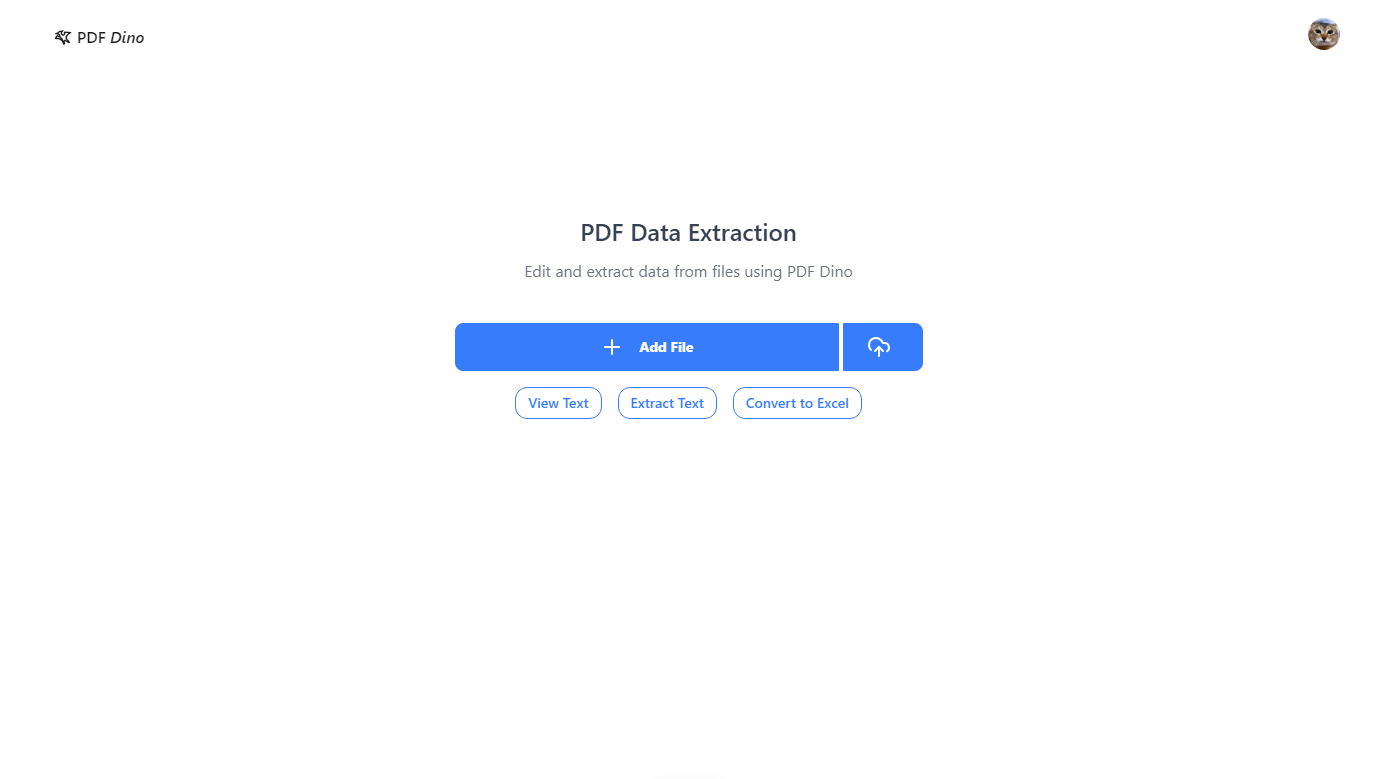
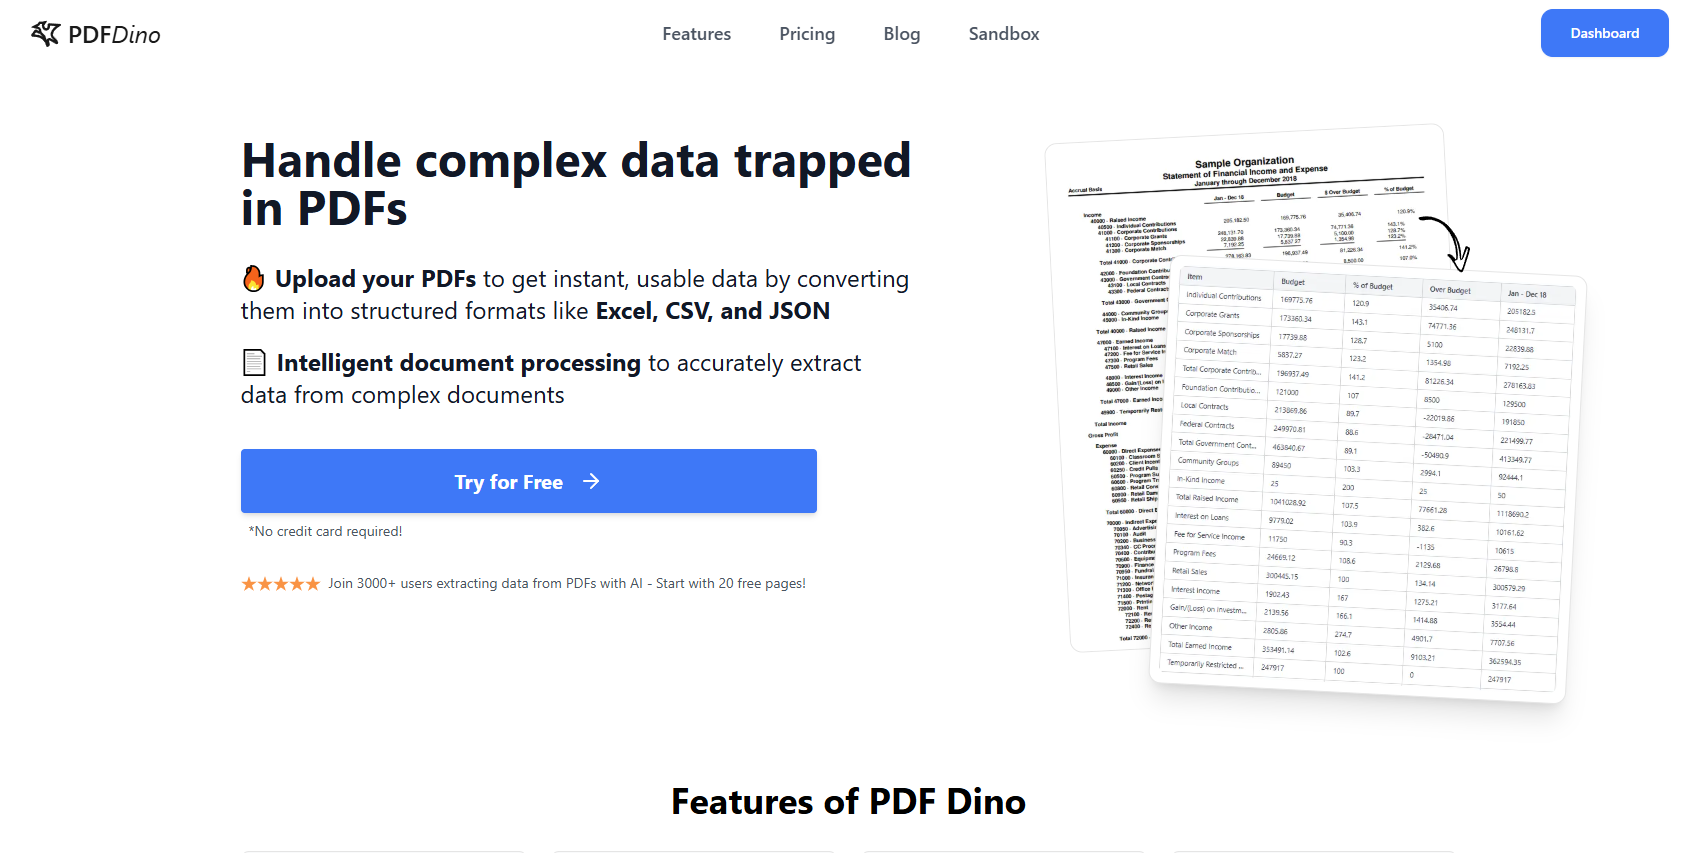
pdf dino landing page update

diff --git a/components/live_projects.tsx b/components/live_projects.tsx
@@ -46,7 +46,7 @@ const LiveProjects = () => {
                             <div className="w-full h-0 pb-[50%] bg-white overflow-hidden relative">
                                 <Image 
                                     className="absolute top-0 left-0 w-full h-full object-contain group-hover:blur-sm" 
-                                    src="/pdfdino.PNG" 
+                                    src="/pdfdino.png" 
                                     alt="PDF Dino"
                                     layout="fill"
                                 />